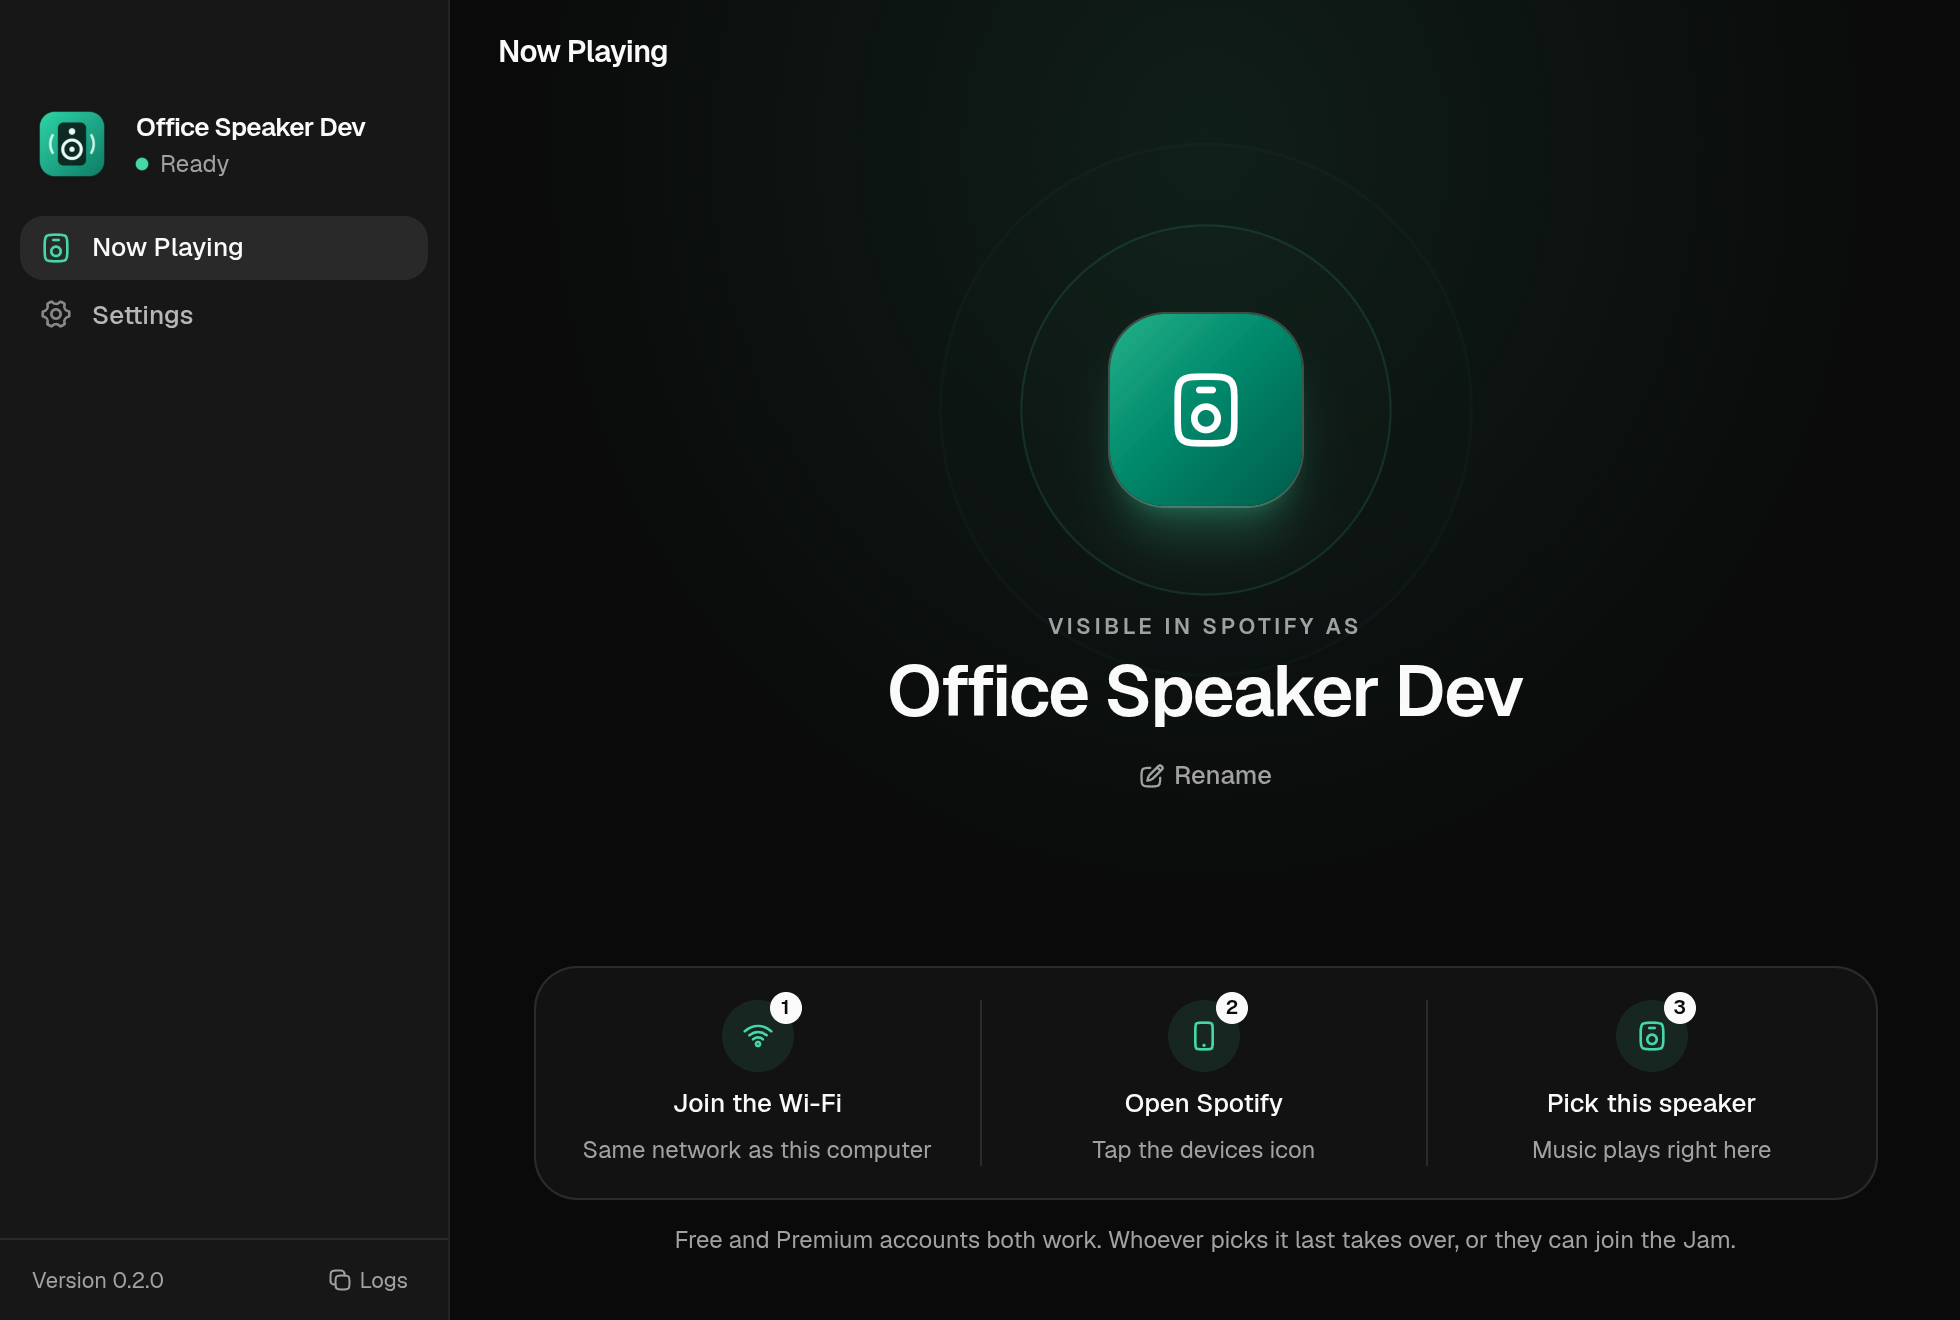
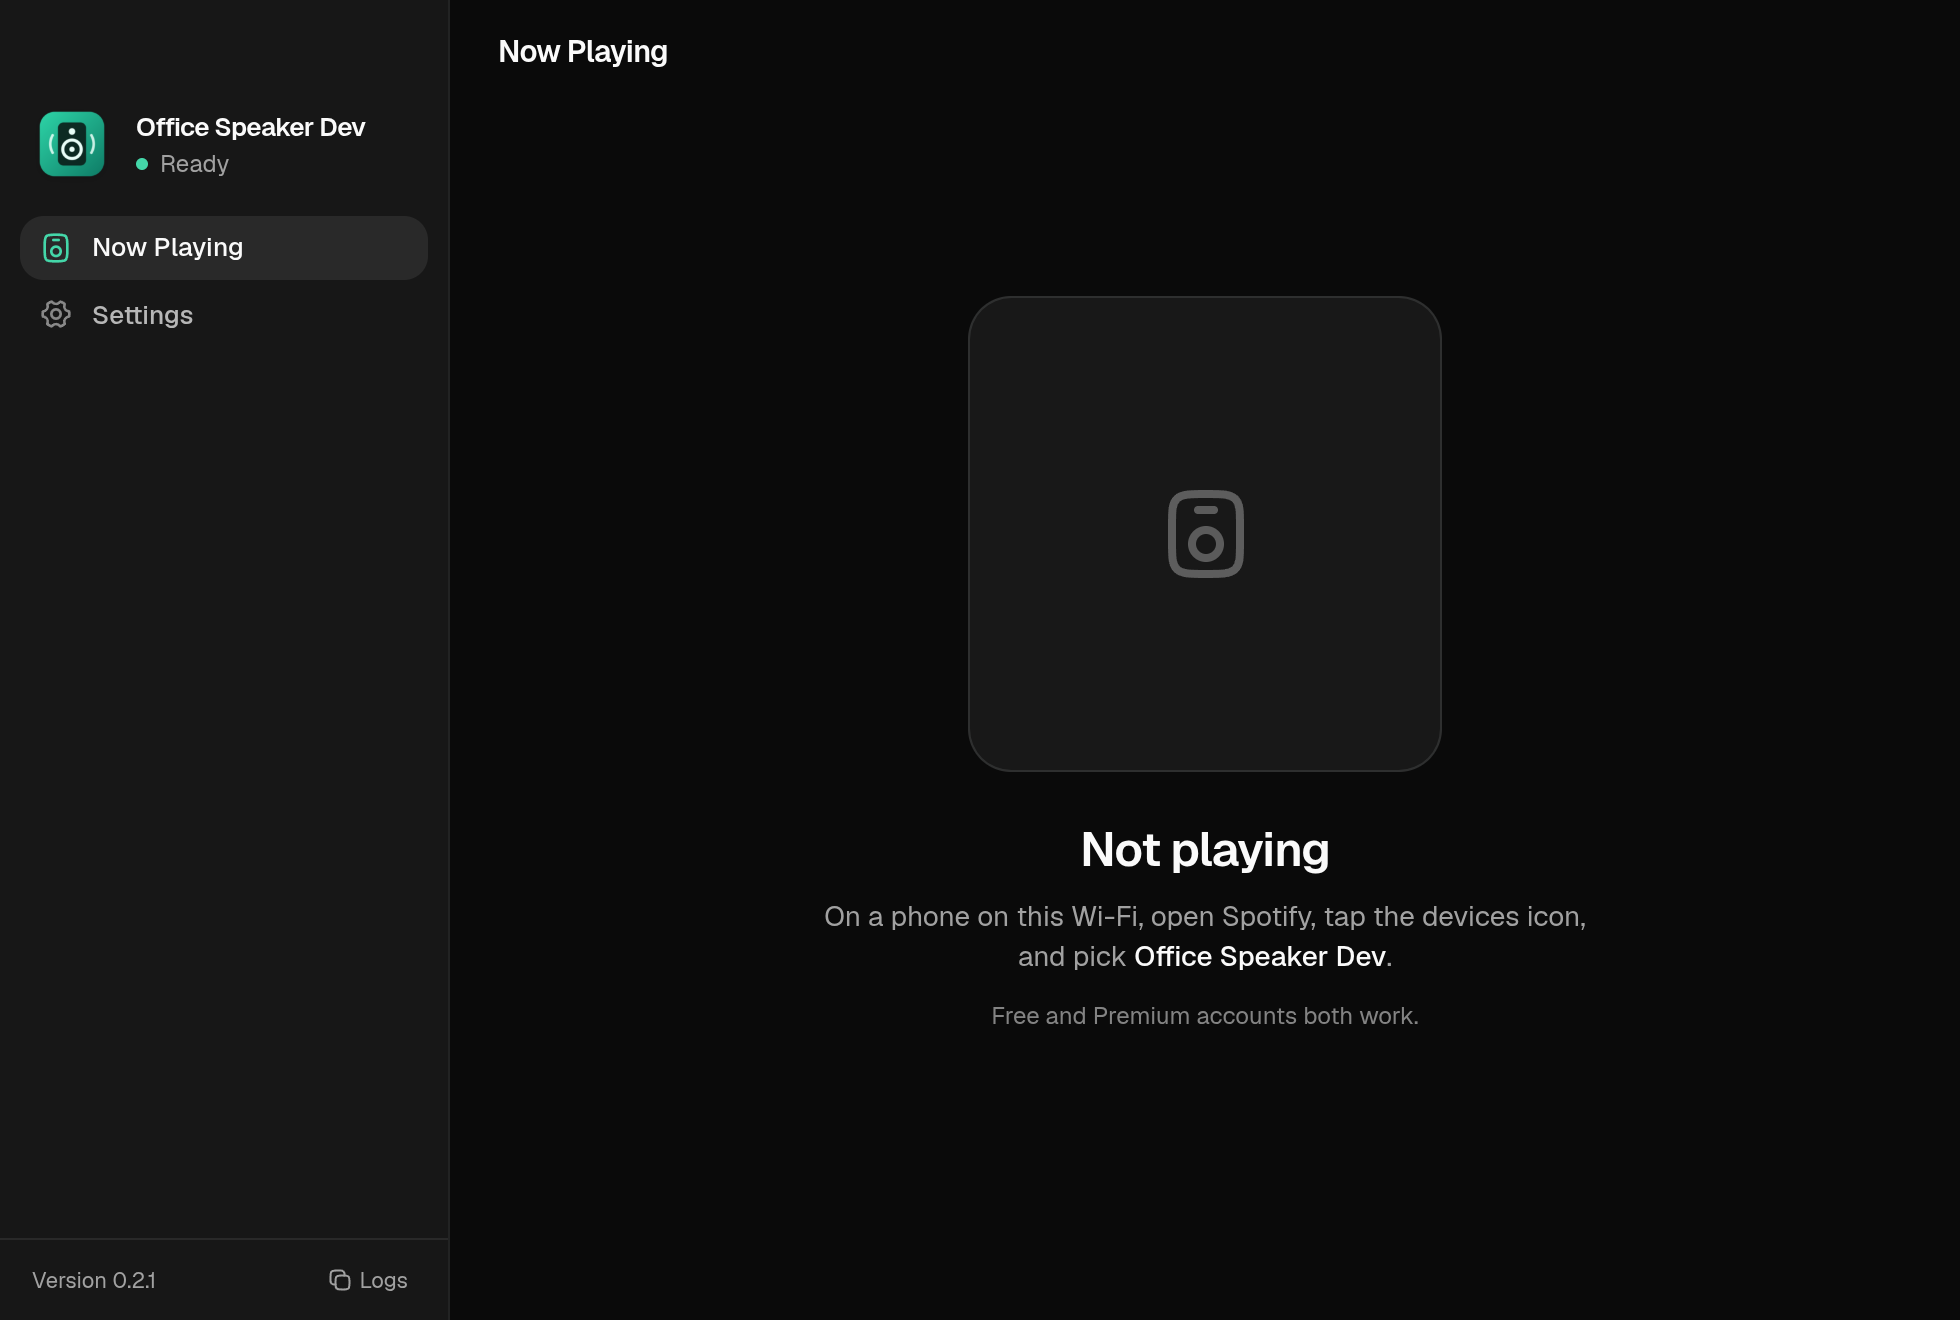
Quiet idle state: an empty player instead of the broadcast hero (v0.2.2)

diff --git a/renderer/src/App.tsx b/renderer/src/App.tsx
@@ -9,7 +9,6 @@ import {
   MusicNote03Icon,
   NextIcon,
   PauseIcon,
-  PencilEdit02Icon,
   PlayIcon,
   PreviousIcon,
   Refresh01Icon,
@@ -20,7 +19,6 @@ import {
   UserMultipleIcon,
   VolumeHighIcon,
   VolumeLowIcon,
-  Wifi01Icon,
 } from "@hugeicons/core-free-icons";
 
 import appIcon from "./app-icon.png";
@@ -81,7 +79,6 @@ function statusLabel(state: SpeakerState) {
 export function App() {
   const [state, setState] = useState<SpeakerState | null>(null);
   const [page, setPage] = useState<Page>("player");
-  const [focusName, setFocusName] = useState(0);
 
   useEffect(() => {
     const off = window.speaker.onState(setState);
@@ -113,16 +110,11 @@ export function App() {
     return <Setup state={state} />;
   }
 
-  const rename = () => {
-    setPage("settings");
-    setFocusName((n) => n + 1);
-  };
-
   return (
     <div className="flex h-screen overflow-hidden">
       <Sidebar state={state} page={page} onNavigate={setPage} />
       <main className="flex min-w-0 flex-1 flex-col border-l bg-background">
-        {page === "player" ? <Player state={state} onRename={rename} /> : <Settings state={state} focusName={focusName} />}
+        {page === "player" ? <Player state={state} /> : <Settings state={state} />}
       </main>
     </div>
   );
@@ -370,7 +362,7 @@ function Setup({ state }: { state: SpeakerState }) {
 
 /* ------------------------------------------------------------------ player */
 
-function Player({ state, onRename }: { state: SpeakerState; onRename: () => void }) {
+function Player({ state }: { state: SpeakerState }) {
   const connected = state.status === "connected";
   const cover = connected ? state.track?.cover : null;
   return (
@@ -393,71 +385,29 @@ function Player({ state, onRename }: { state: SpeakerState; onRename: () => void
           <p>{state.message}</p>
         </div>
       )}
-      {connected ? <NowPlaying state={state} /> : <Waiting state={state} onRename={onRename} />}
+      {connected ? <NowPlaying state={state} /> : <Waiting state={state} />}
     </div>
   );
 }
 
-function BroadcastMark({ busy }: { busy: boolean }) {
-  return (
-    <div className="relative grid size-44 place-items-center">
-      {!busy &&
-        [0, 1.2, 2.4].map((delay) => (
-          <span
-            key={delay}
-            className="absolute inset-0 animate-broadcast rounded-full border border-primary/40 bg-primary/5"
-            style={{ animationDelay: `${delay}s` }}
-          />
-        ))}
-      <div className="relative grid size-24 place-items-center rounded-[28px] bg-linear-to-br from-[oklch(0.68_0.13_168)] to-[oklch(0.42_0.09_175)] text-white shadow-xl shadow-primary/25 ring-1 ring-white/20">
-        <Icon icon={busy ? Loading03Icon : Speaker01Icon} className={cn("size-10", busy && "animate-spin")} />
-      </div>
-    </div>
-  );
-}
-
-function Waiting({ state, onRename }: { state: SpeakerState; onRename: () => void }) {
-  const name = state.settings.name;
+function Waiting({ state }: { state: SpeakerState }) {
   const busy = state.status === "starting" || state.status === "expired";
-  const steps: { icon: IconSvgElement; title: string; text: string }[] = [
-    { icon: Wifi01Icon, title: "Join the Wi-Fi", text: "Same network as this computer" },
-    { icon: SmartPhone01Icon, title: "Open Spotify", text: "Tap the devices icon" },
-    { icon: Speaker01Icon, title: "Pick this speaker", text: "Music plays right here" },
-  ];
   return (
-    <>
-      <div className="pointer-events-none absolute inset-x-0 top-0 h-3/4 bg-radial-[at_50%_15%] from-primary/10 to-transparent to-65%" />
-      <div className="relative flex flex-1 flex-col items-center justify-center px-10 pb-4 text-center">
-        <BroadcastMark busy={busy} />
-        <p className="mt-3 text-[11px] font-semibold tracking-[0.16em] text-muted-foreground uppercase">
-          {busy ? "Starting up" : "Visible in Spotify as"}
-        </p>
-        <p className="mt-1 max-w-full font-heading text-4xl font-semibold tracking-tight break-words">{name}</p>
-        <Button variant="ghost" size="sm" className="mt-2 text-muted-foreground" onClick={onRename}>
-          <Icon icon={PencilEdit02Icon} />
-          Rename
-        </Button>
+    <div className="flex min-h-0 flex-1 flex-col items-center justify-center gap-6 px-10 pb-12 text-center">
+      <div className="grid aspect-square h-[clamp(160px,36vh,300px)] place-items-center rounded-2xl border bg-muted/50 text-muted-foreground/50">
+        <Icon icon={busy ? Loading03Icon : Speaker01Icon} className={cn("size-12", busy && "animate-spin")} />
       </div>
-      <div className="relative px-8 pb-8">
-        <ol className="mx-auto grid max-w-2xl grid-cols-3 divide-x rounded-2xl border bg-card/60 py-4 backdrop-blur">
-          {steps.map((step, index) => (
-            <li key={step.title} className="flex flex-col items-center gap-1.5 px-4 text-center">
-              <span className="relative grid size-9 place-items-center rounded-full bg-primary/10 text-primary">
-                <Icon icon={step.icon} className="size-4" />
-                <span className="absolute -top-1 -right-1 grid size-4 place-items-center rounded-full bg-foreground text-[10px] font-semibold text-background">
-                  {index + 1}
-                </span>
-              </span>
-              <p className="text-[13px] font-medium">{step.title}</p>
-              <p className="text-xs text-muted-foreground">{step.text}</p>
-            </li>
-          ))}
-        </ol>
-        <p className="mt-3 text-center text-xs text-muted-foreground">
-          Free and Premium accounts both work. Whoever picks it last takes over, or they can join the Jam.
+      <div className="max-w-sm">
+        <h2 className="font-heading text-2xl leading-tight font-semibold tracking-tight">
+          {busy ? "Starting…" : "Not playing"}
+        </h2>
+        <p className="mt-2 text-sm text-muted-foreground">
+          On a phone on this Wi-Fi, open Spotify, tap the devices icon, and pick{" "}
+          <span className="font-medium text-foreground">{state.settings.name}</span>.
         </p>
+        <p className="mt-3 text-xs text-muted-foreground/80">Free and Premium accounts both work.</p>
       </div>
-    </>
+    </div>
   );
 }
 
@@ -642,7 +592,7 @@ function Row({
   );
 }
 
-function Settings({ state, focusName }: { state: SpeakerState; focusName: number }) {
+function Settings({ state }: { state: SpeakerState }) {
   const [name, setName] = useState(state.settings.name);
   const [savingName, setSavingName] = useState(false);
   const [editingKey, setEditingKey] = useState(false);
@@ -658,12 +608,6 @@ function Settings({ state, focusName }: { state: SpeakerState; focusName: number
   useEffect(() => {
     if (!savingName) setName(state.settings.name);
   }, [state.settings.name]);
-
-  useEffect(() => {
-    if (!focusName) return;
-    nameRef.current?.focus();
-    nameRef.current?.select();
-  }, [focusName]);
 
   const save = (patch: { name?: string; openAtLogin?: boolean; apiKey?: string }) =>
     window.speaker.saveSettings({

diff --git a/renderer/src/index.css b/renderer/src/index.css
@@ -149,20 +149,6 @@
   -webkit-app-region: no-drag;
 }
 
-@keyframes broadcast {
-  0% {
-    transform: scale(0.55);
-    opacity: 0.6;
-  }
-  100% {
-    transform: scale(1.65);
-    opacity: 0;
-  }
-}
-@utility animate-broadcast {
-  animation: broadcast 3.6s cubic-bezier(0.2, 0.6, 0.35, 1) infinite;
-}
-
 @keyframes equalizer {
   0%,
   100% {
@@ -178,7 +164,6 @@
 }
 
 @media (prefers-reduced-motion: reduce) {
-  .animate-broadcast,
   .animate-equalizer {
     animation: none;
   }
